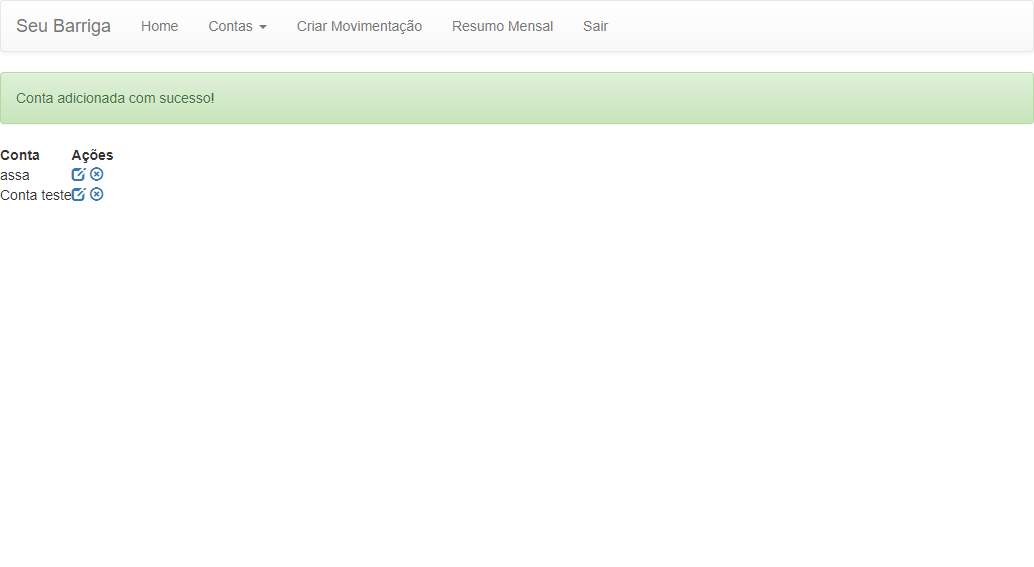
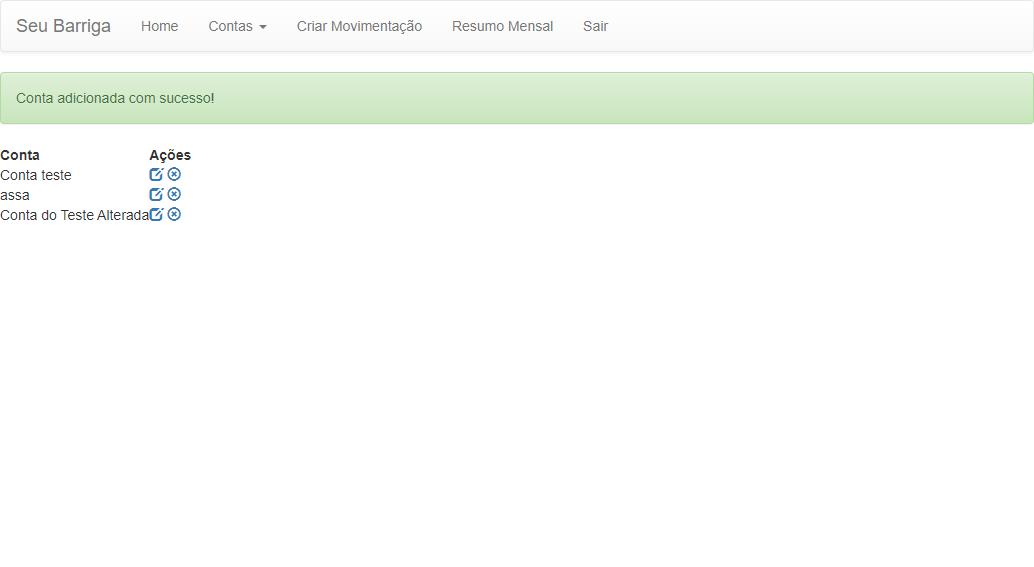
Teste alterar conta + teste de inserir conta com mesmo nome

Changed region(s): [[0.0, 0.2698, 0.1857, 0.3898]]

diff --git a/src/test/java/base/BasePage.java b/src/test/java/base/BasePage.java
@@ -11,6 +11,7 @@ import static core.DriverFactory.getDriver;
 
 public class BasePage {
     public void escreve(By locator, String texto){
+        getDriver().findElement(locator).clear();
         getDriver().findElement(locator).sendKeys(texto);
     }
 
@@ -60,41 +61,45 @@ public class BasePage {
         return valor;
     }
 
-    public void clicarBotaoTabela(String colunaBusca, String valorLinha, String colunaBotao){
+    public WebElement obterCelula(String colunaBusca, String valor, String colunaBotao, String idTabela){
         //procurar coluna do registro
-        WebElement tabela = getDriver().findElement(By.xpath("//table[@id='elementosForm:tableUsuarios']"));
-        int idColuna = obterIndiceColuna(colunaBusca,tabela);
+        WebElement tabela = getDriver().findElement(By.xpath("//*[@id='"+idTabela+"']"));
+        int idColuna = obterIndiceColuna(colunaBusca, tabela);
 
         //encontrar a linha do registro
-        int idLinha = obterIndiceLinha(valorLinha, tabela, idColuna);
+        int idLinha = obterIndiceLinha(valor, tabela, idColuna);
 
-        //procurar coluna botao
-        int idColunaBotao = obterIndiceColuna(colunaBotao,tabela);
+        //procurar coluna do botao
+        int idColunaBotao = obterIndiceColuna(colunaBotao, tabela);
 
-        //clicar no botao da celula
-
+        //clicar no botao da celula encontrada
         WebElement celula = tabela.findElement(By.xpath(".//tr["+idLinha+"]/td["+idColunaBotao+"]"));
-        celula.findElement(By.xpath(".//input")).click();
+        return celula;
     }
 
-    public  int obterIndiceLinha(String valorLinha, WebElement tabela, int idColuna) {
-        List<WebElement> linhas =  tabela.findElements(By.xpath("./tbody/tr/td["+ idColuna +"]"));
-        int idlinha = -1;
-        for (int i = 0; i < linhas.size(); i++){
-            if(linhas.get(i).getText().equals(valorLinha)){
-                idlinha = i+1;
+    public void clicarBotaoTabela(String colunaBusca, String valor, String colunaBotao, String idTabela){
+        WebElement celula = obterCelula(colunaBusca, valor, colunaBotao, idTabela);
+        celula.findElement(By.xpath(".//input")).click();
+
+    }
+
+    protected int obterIndiceLinha(String valor, WebElement tabela, int idColuna) {
+        List<WebElement> linhas = tabela.findElements(By.xpath("./tbody/tr/td["+idColuna+"]"));
+        int idLinha = -1;
+        for(int i = 0; i < linhas.size(); i++) {
+            if(linhas.get(i).getText().equals(valor)) {
+                idLinha = i+1;
                 break;
             }
         }
-        return idlinha;
+        return idLinha;
     }
 
-    public int obterIndiceColuna(String coluna, WebElement tabela){
-
+    protected int obterIndiceColuna(String coluna, WebElement tabela) {
         List<WebElement> colunas = tabela.findElements(By.xpath(".//th"));
         int idColuna = -1;
-        for (int i = 0; i < colunas.size(); i++){
-            if(colunas.get(i).getText().equals(coluna)){
+        for(int i = 0; i < colunas.size(); i++) {
+            if(colunas.get(i).getText().equals(coluna)) {
                 idColuna = i+1;
                 break;
             }

diff --git a/src/test/java/test/ContaTest.java b/src/test/java/test/ContaTest.java
@@ -13,8 +13,29 @@ public class ContaTest extends BaseTest {
     public void testInserirConta(){
         menuPage.acessarTelaInserirConta();
 
-        contasPage.adicionarContas("Conta teste");
+        contasPage.setNome("Conta teste");
         contasPage.salvar();
         Assert.assertEquals("Conta adicionada com sucesso!", contasPage.obterMensagemSucesso());
+    }
+
+    @Test
+    public void testAlterarConta(){
+        menuPage.acessarListasConta();
+
+        contasPage.clicarAlterarConta("Conta teste");
+
+        contasPage.setNome("Conta do Teste Alterada");
+        contasPage.salvar();
+
+        Assert.assertEquals("Conta alterada com sucesso!", contasPage.obterMensagemSucesso());
+    }
+
+    @Test
+    public void testInserirContaMesmoNome(){
+        menuPage.acessarTelaInserirConta();
+
+        contasPage.setNome("Conta do Teste Alterada");
+        contasPage.salvar();
+        Assert.assertEquals("Já existe uma conta com esse nome!", contasPage.obterMensagemErro());
     }
 }

diff --git a/src/test/java/page/ContasPage.java b/src/test/java/page/ContasPage.java
@@ -4,7 +4,7 @@ import base.BasePage;
 import org.openqa.selenium.By;
 
 public class ContasPage extends BasePage {
-    public void adicionarContas(String nome){
+    public void setNome(String nome){
         escreve(By.id("nome"), nome);
     }
     public void salvar(){
@@ -13,5 +13,11 @@ public class ContasPage extends BasePage {
 
     public String obterMensagemSucesso(){
         return obterValorPorTexto(By.xpath("//div[@class='alert alert-success']"));
+    }
+
+    public String obterMensagemErro(){return obterValorPorTexto(By.xpath("//div[@class='alert alert-danger']"));}
+    public void clicarAlterarConta(String valor){
+        obterCelula("Conta", valor, "Ações","tabelaContas")
+                .findElement(By.xpath(".//span[@class='glyphicon glyphicon-edit']")).click();
     }
 }

diff --git a/src/test/java/page/MenuPage.java b/src/test/java/page/MenuPage.java
@@ -8,6 +8,11 @@ public class MenuPage extends BasePage {
         clicarLink("Contas");
         clicarLink("Adicionar");
     }
+    public void acessarListasConta(){
+        clicarLink("Contas");
+        clicarLink("Listar");
+    }
+
 
 
 }
